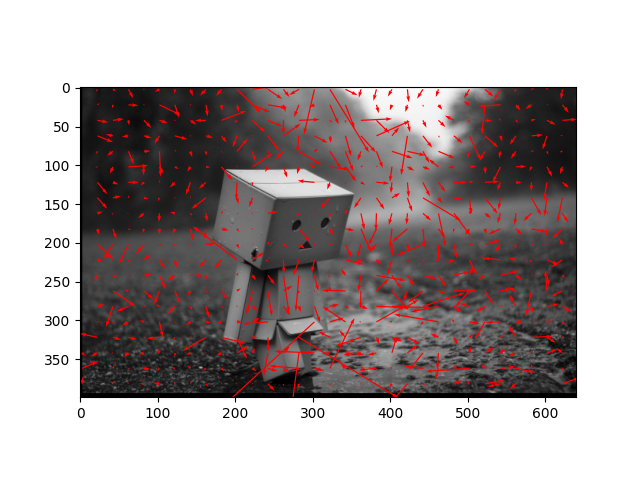
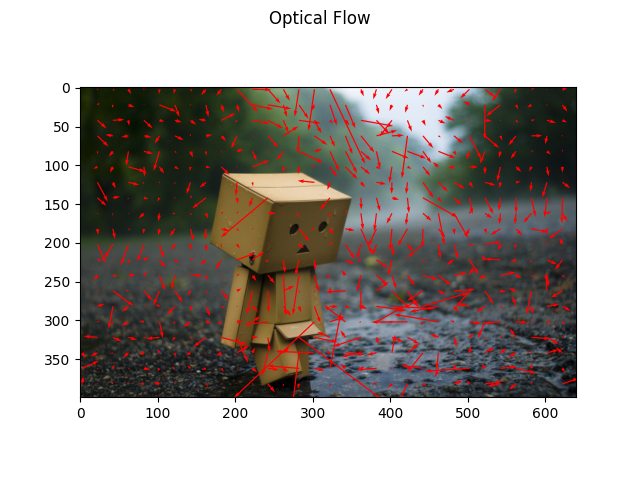
title

diff --git a/ex3_main.py b/ex3_main.py
@@ -111,9 +111,8 @@ def compareLK(img_path):
 def displayOpticalFlow(img: np.ndarray, pts: np.ndarray, uvs: np.ndarray):
     plt.imshow(img, cmap='gray')
     plt.quiver(pts[:, 0], pts[:, 1], uvs[:, 0], uvs[:, 1], color='r')
-
-    plt.savefig("lucas-kanade")
     plt.suptitle('Optical Flow')
+    plt.savefig("output/lucas-kanade")
     plt.show()
 
 
@@ -121,7 +120,7 @@ def displayOpticalFlowh(img: np.ndarray, pts: np.ndarray, uvs: np.ndarray):
     plt.imshow(img, cmap='gray')
     plt.quiver(pts[:, 0], pts[:, 1], uvs[:, 0], uvs[:, 1], color='r')
     plt.suptitle('Hierarchical Optical Flow')
-    plt.savefig("hierarchical lucas-kanade")
+    plt.savefig("output/hierarchical lucas-kanade")
     plt.show()
 
 
